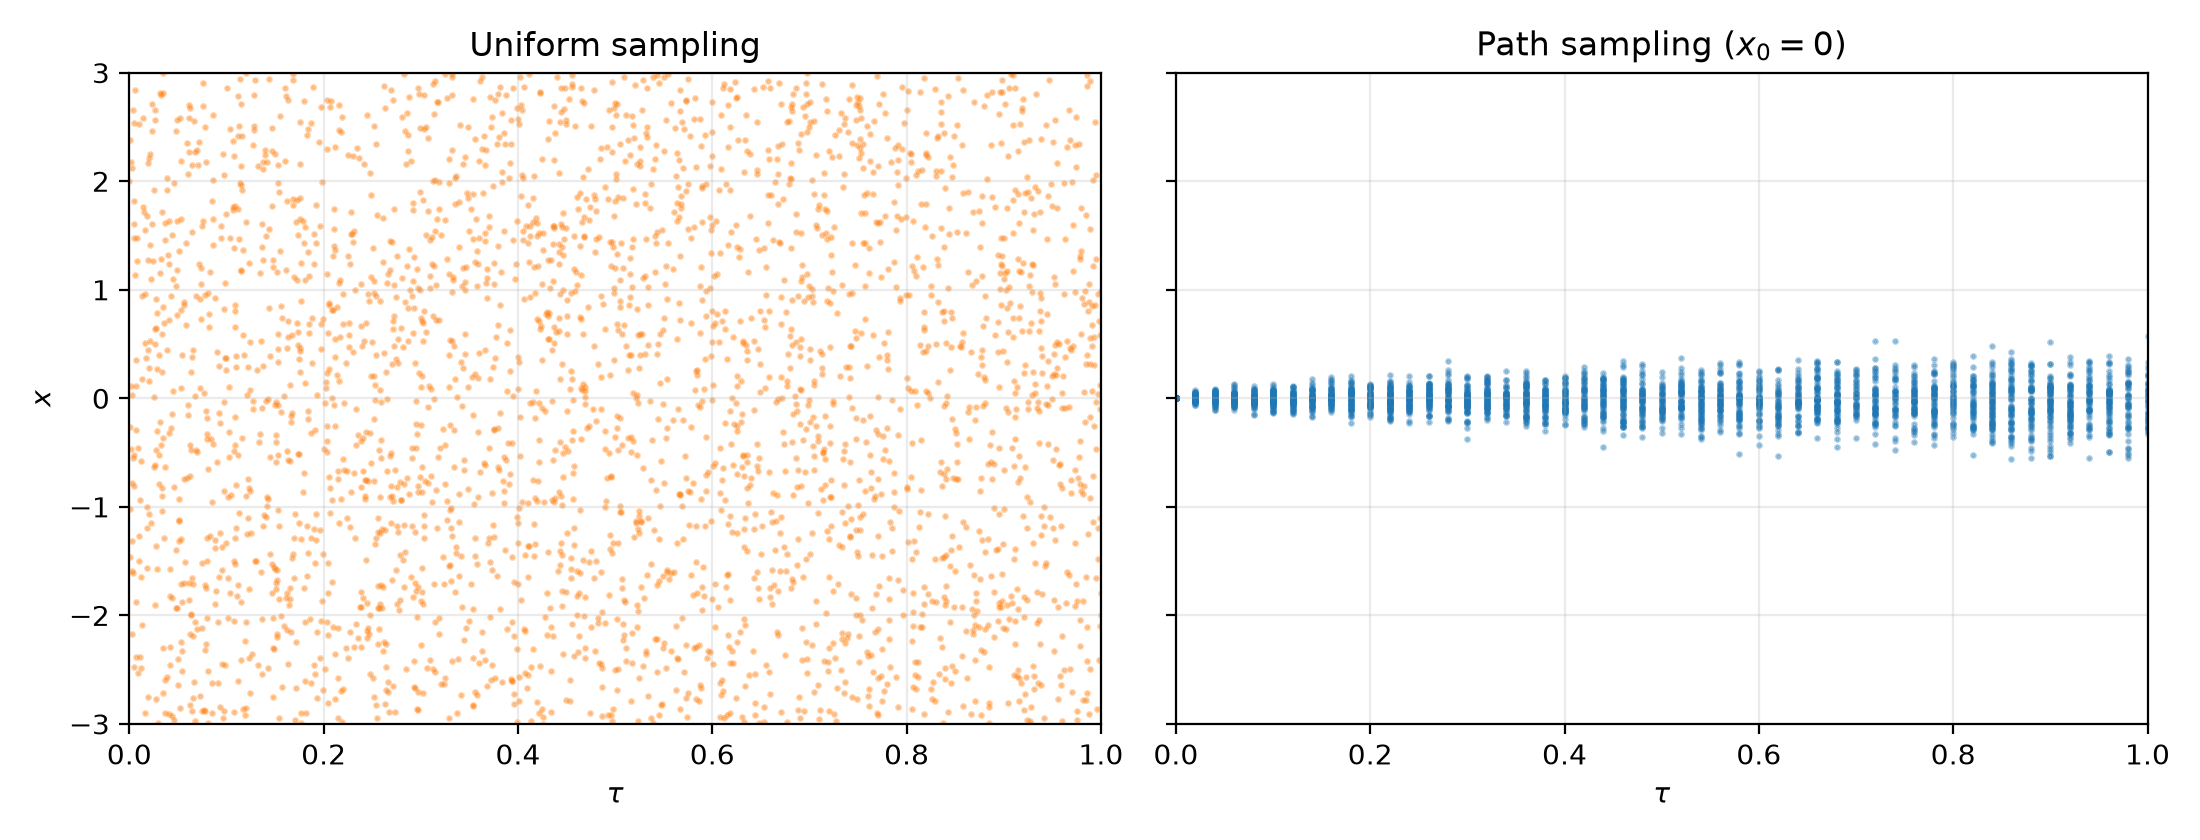
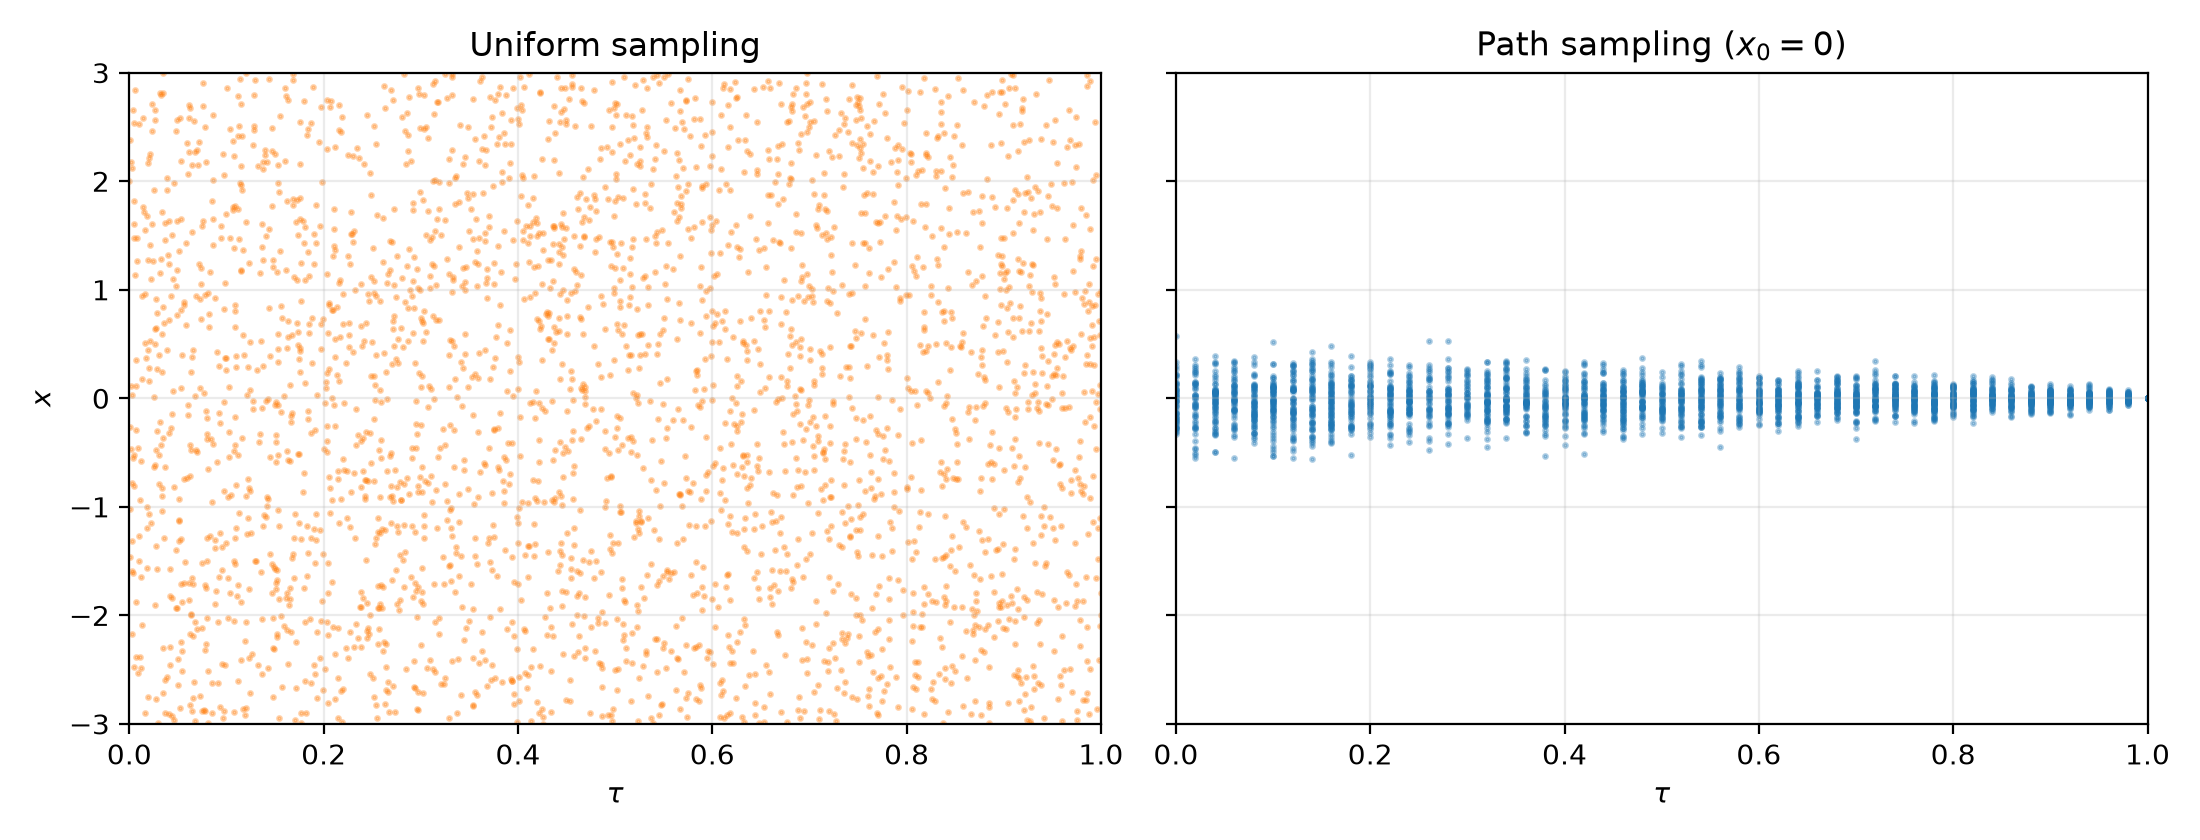
changed from uniform sampling and boundary conditions to gaussian+path based

Changed region(s): [[0.5255, 0.4024, 0.9891, 0.5571]]

diff --git a/rla_pinns/black_scholes_logS_equation.py b/rla_pinns/black_scholes_logS_equation.py
@@ -38,6 +38,8 @@ MATURITY = float(environ.get("BS_MATURITY", 1.0)) # T (tau runs over [0, T])
 X_MIN = float(environ.get("BS_XMIN", -3.0))       # log-price domain lower bound
 X_MAX = float(environ.get("BS_XMAX", 3.0))        # log-price domain upper bound
 PATH_X0 = float(environ.get("BS_PATH_X0", 0.0))
+GAUSS_STD = float(environ.get("BS_GAUSS_STD", 0.4))
+
 
 _MU_CONST = 0.5 * SIGMA**2                         # 0.02
 _SIGMA_FP = SIGMA                                  # 0.2
@@ -107,15 +109,17 @@ def interior_points(N: int) -> Tensor:
     return _cat_time_space(tau, x)
 
 
-def terminal_points(N: int) -> Tensor:
-    """Initial condition lives at tau = 0 (was the terminal payoff at t = T)."""
-    # oversample near the strike x = log(K) = 0 where the payoff kink lives
-    n_strike = N // 2
-    n_uniform = N - n_strike
-    x_uniform = X_MIN + (X_MAX - X_MIN) * rand(n_uniform, 1)
-    x_strike = clamp(0.0 + 0.5 * (rand(n_strike, 1) - 0.5), min=X_MIN, max=X_MAX)
-    x = cat([x_uniform, x_strike], dim=0)
-    tau = zeros(N, 1)              # tau = 0 initial condition
+def gaussian_interior_points(N: int) -> Tensor:
+    # Gaussian approximation to the path measure
+    tau = MATURITY * rand(N, 1)
+    x = GAUSS_STD * randn(N, 1)
+    return _cat_time_space(tau, x)
+
+
+def terminal_points(N: int) -> Tensor:  # drawn from path endpoint distribution
+    z = randn(N, 1)
+    x = PATH_X0 + (PATH_MU - 0.5 * SIGMA**2) * MATURITY + SIGMA * (MATURITY**0.5) * z
+    tau = zeros(N, 1)
     return _cat_time_space(tau, x)
 
 
@@ -148,7 +152,7 @@ def path_interior_points(N: int) -> Tensor:
 
     # log-space GBM increments (from Ito: d(lnS) = (mu - 0.5 sigma^2)dt + sigma dW)
     #   drift scales with dt;  noise scales with SQRT(dt)
-    Z = rand(n_paths, PATH_STEPS)
+    Z = randn(n_paths, PATH_STEPS)
     increments = (PATH_MU - 0.5 * SIGMA**2) * dt_step + SIGMA * (dt_step**0.5) * Z
 
     # running total gives the path. Leading zeros = "no movement yet at t = 0".

diff --git a/plot_x0fixed.py b/plot_x0fixed.py
@@ -1,0 +1,32 @@
+import wandb
+import matplotlib.pyplot as plt
+
+PROJECT = "williamgevao202-concordia-university/deep-hedging-compare"
+RUNS = {"uniform": "uni_x0fixed", "path": "path_x0fixed"}
+COLORS = {"uniform": "tab:orange", "path": "tab:blue"}
+
+api = wandb.Api()
+hist = {}
+for label, rid in RUNS.items():
+    r = api.run(f"{PROJECT}/{rid}")
+    h = r.history(keys=["step", "l2_error", "l2_error_path"], pandas=True)
+    hist[label] = h.dropna(subset=["l2_error"]).sort_values("step")
+    print(f"{label}: final l2={hist[label]['l2_error'].iloc[-1]:.3e}, "
+          f"final l2_path={hist[label]['l2_error_path'].iloc[-1]:.3e}")
+
+fig, axes = plt.subplots(1, 2, figsize=(11, 4.2), sharey=True)
+panels = [("l2_error", "Uniform-domain eval"),
+          ("l2_error_path", "Path-region eval")]
+
+for ax, (key, title) in zip(axes, panels):
+    for label, h in hist.items():
+        ax.plot(h["step"], h[key], label=f"{label}-trained",
+                color=COLORS[label], lw=1.3)
+    ax.set_xscale("log"); ax.set_yscale("log")
+    ax.set_xlabel("training step"); ax.set_title(title)
+    ax.grid(True, which="both", alpha=0.25)
+axes[0].set_ylabel(r"$L^2$ error"); axes[0].legend()
+
+fig.tight_layout()
+fig.savefig("x0fixed_comparison.png", dpi=200)
+print("saved x0fixed_comparison.png")

diff --git a/rla_pinns/train.py b/rla_pinns/train.py
@@ -410,6 +410,7 @@ def create_interior_data(
         sampler = {
             "uniform": black_scholes_logS_equation.interior_points,
             "path": black_scholes_logS_equation.path_interior_points,
+            "gaussian": black_scholes_logS_equation.gaussian_interior_points,
         }[interior_sampling]
         X = sampler(num_data)
         y = zeros(num_data, 1)
@@ -540,10 +541,7 @@ def create_condition_data(
         X_dOmega = cat([X_terminal, X_boundary])
  
     elif equation == "black-scholes-logS" and condition == "call_payoff":
-        # tau=0 initial (payoff) condition + spatial (log-price) boundary
-        X_terminal = black_scholes_logS_equation.terminal_points(num_data // 2)
-        X_boundary = black_scholes_logS_equation.spatial_boundary_points(num_data // 2)
-        X_dOmega = cat([X_terminal, X_boundary])
+        X_dOmega = black_scholes_logS_equation.terminal_points(num_data)
     
     else:
         raise NotImplementedError(

diff --git a/plot_uniform_vs_cone.py b/plot_uniform_vs_cone.py
@@ -15,7 +15,7 @@ def path_points(n_paths):
     for k in range(STEPS):
         z = torch.randn(n_paths)
         xs[:, k+1] = xs[:, k] + (0.0 - 0.5*SIGMA**2)*dt + SIGMA*(dt**0.5)*z
-    taus = torch.linspace(0, T_MAX, STEPS + 1)
+    taus = torch.linspace(T_MAX, 0.0, STEPS + 1)
     return torch.stack([taus.repeat(n_paths), xs.flatten()], dim=1)
 
 fig, axes = plt.subplots(1, 2, figsize=(11, 4.2), sharey=True)
